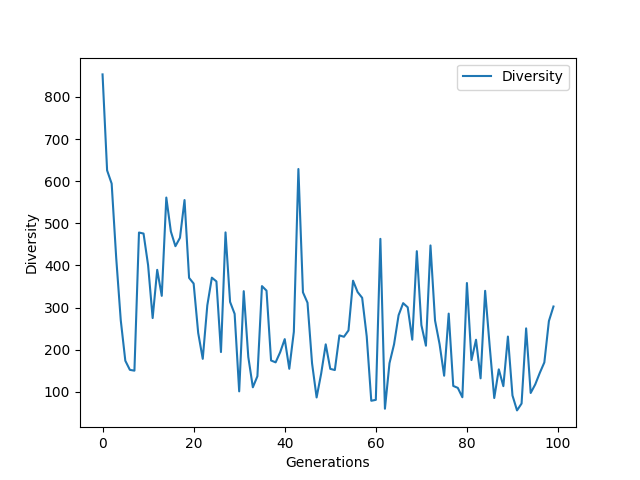
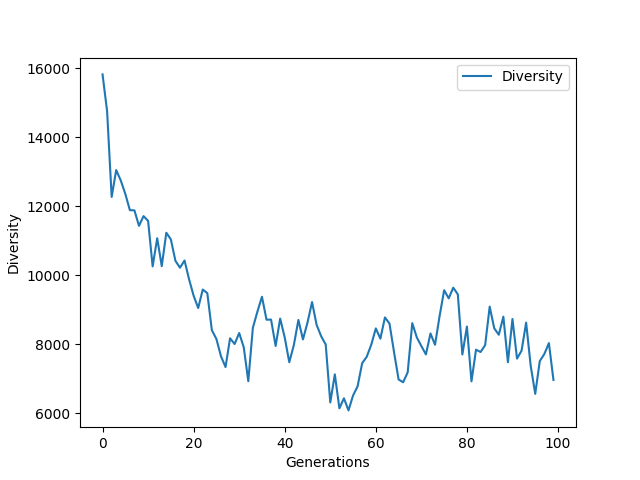
Graphic Pattern DONE! Need to fix the Float elitism.

diff --git a/OCEV/variaveis.py b/OCEV/variaveis.py
@@ -4,7 +4,7 @@ import math as mt
 generations = 100
 k = 2
 pop_size = 50
-d_size = 5
+d_size = 36
 bounds = [-50,50]
 
 elitism = True
@@ -17,25 +17,25 @@ selection = 2
 # 1 = bitsAlternados, 2 = Pares Alternados, 3 = max x^2, 4 = Radio, 5 = padrao grafico
 # problem = 1
 # problem = 2
-problem = 3
+# problem = 3
 # problem = 4
-# problem = 5
+problem = 5
 
 # 1 = onePoint; 2 = Uniform; 3 = BLX; 4 = Average; 5 = PLX
-# cover = 1
+cover = 1
 # cover = 2
 # cover = 3
-cover = 4
+# cover = 4
 # cover = 5
 
 # 1 = bitFlip; 2 = randMutation; 3 = deltaMutation; 4 = gaussianMutation; 5 = swapPositions
-# mutar = 1
+mutar = 1
 # mutar = 2
-mutar = 3
+# mutar = 3
 # mutar = 4
 # mutar = 5
 
 
-cod = 0
+# cod = 0
 # cod = 0.0
-# cod = False
+cod = False

diff --git a/OCEV/fitness.py b/OCEV/fitness.py
@@ -84,15 +84,17 @@ def radio(matriz,pop,d):
 # Graphic Pattern
 def pattern(matriz,pop,d):
   fitness = 0
-  submat = []
-  compare = [[1,0,1,1,1,1],[1,0,1,0,0,1],[1,0,1,0,1,1],[1,1,1,1,0,1],[1,0,0,0,1,1],[1,1,1,1,0,1]]
-  subCompare = []
+  compare = [1,0,1,1,1,1,
+  			 1,0,1,0,0,1,
+  			 1,0,1,0,1,1,
+  			 1,1,1,1,0,1,
+  			 1,0,0,0,1,1,
+  			 1,1,1,1,0,1]
   for i in range(pop):
     for j in range(d):
-      if matriz[i][j] == compare[i][j]:
+      if matriz[i][j] == compare[j]:
         fitness += 1
     matriz[i].append(fitness)
-    print(matriz[i])
     matriz[i][d] = fitness
     fitness = 0
   return matriz

diff --git a/OCEV/main.py b/OCEV/main.py
@@ -137,4 +137,5 @@ def main():
   
   print(best)
 
-main()
+if  __name__ =='__main__':
+  main()
